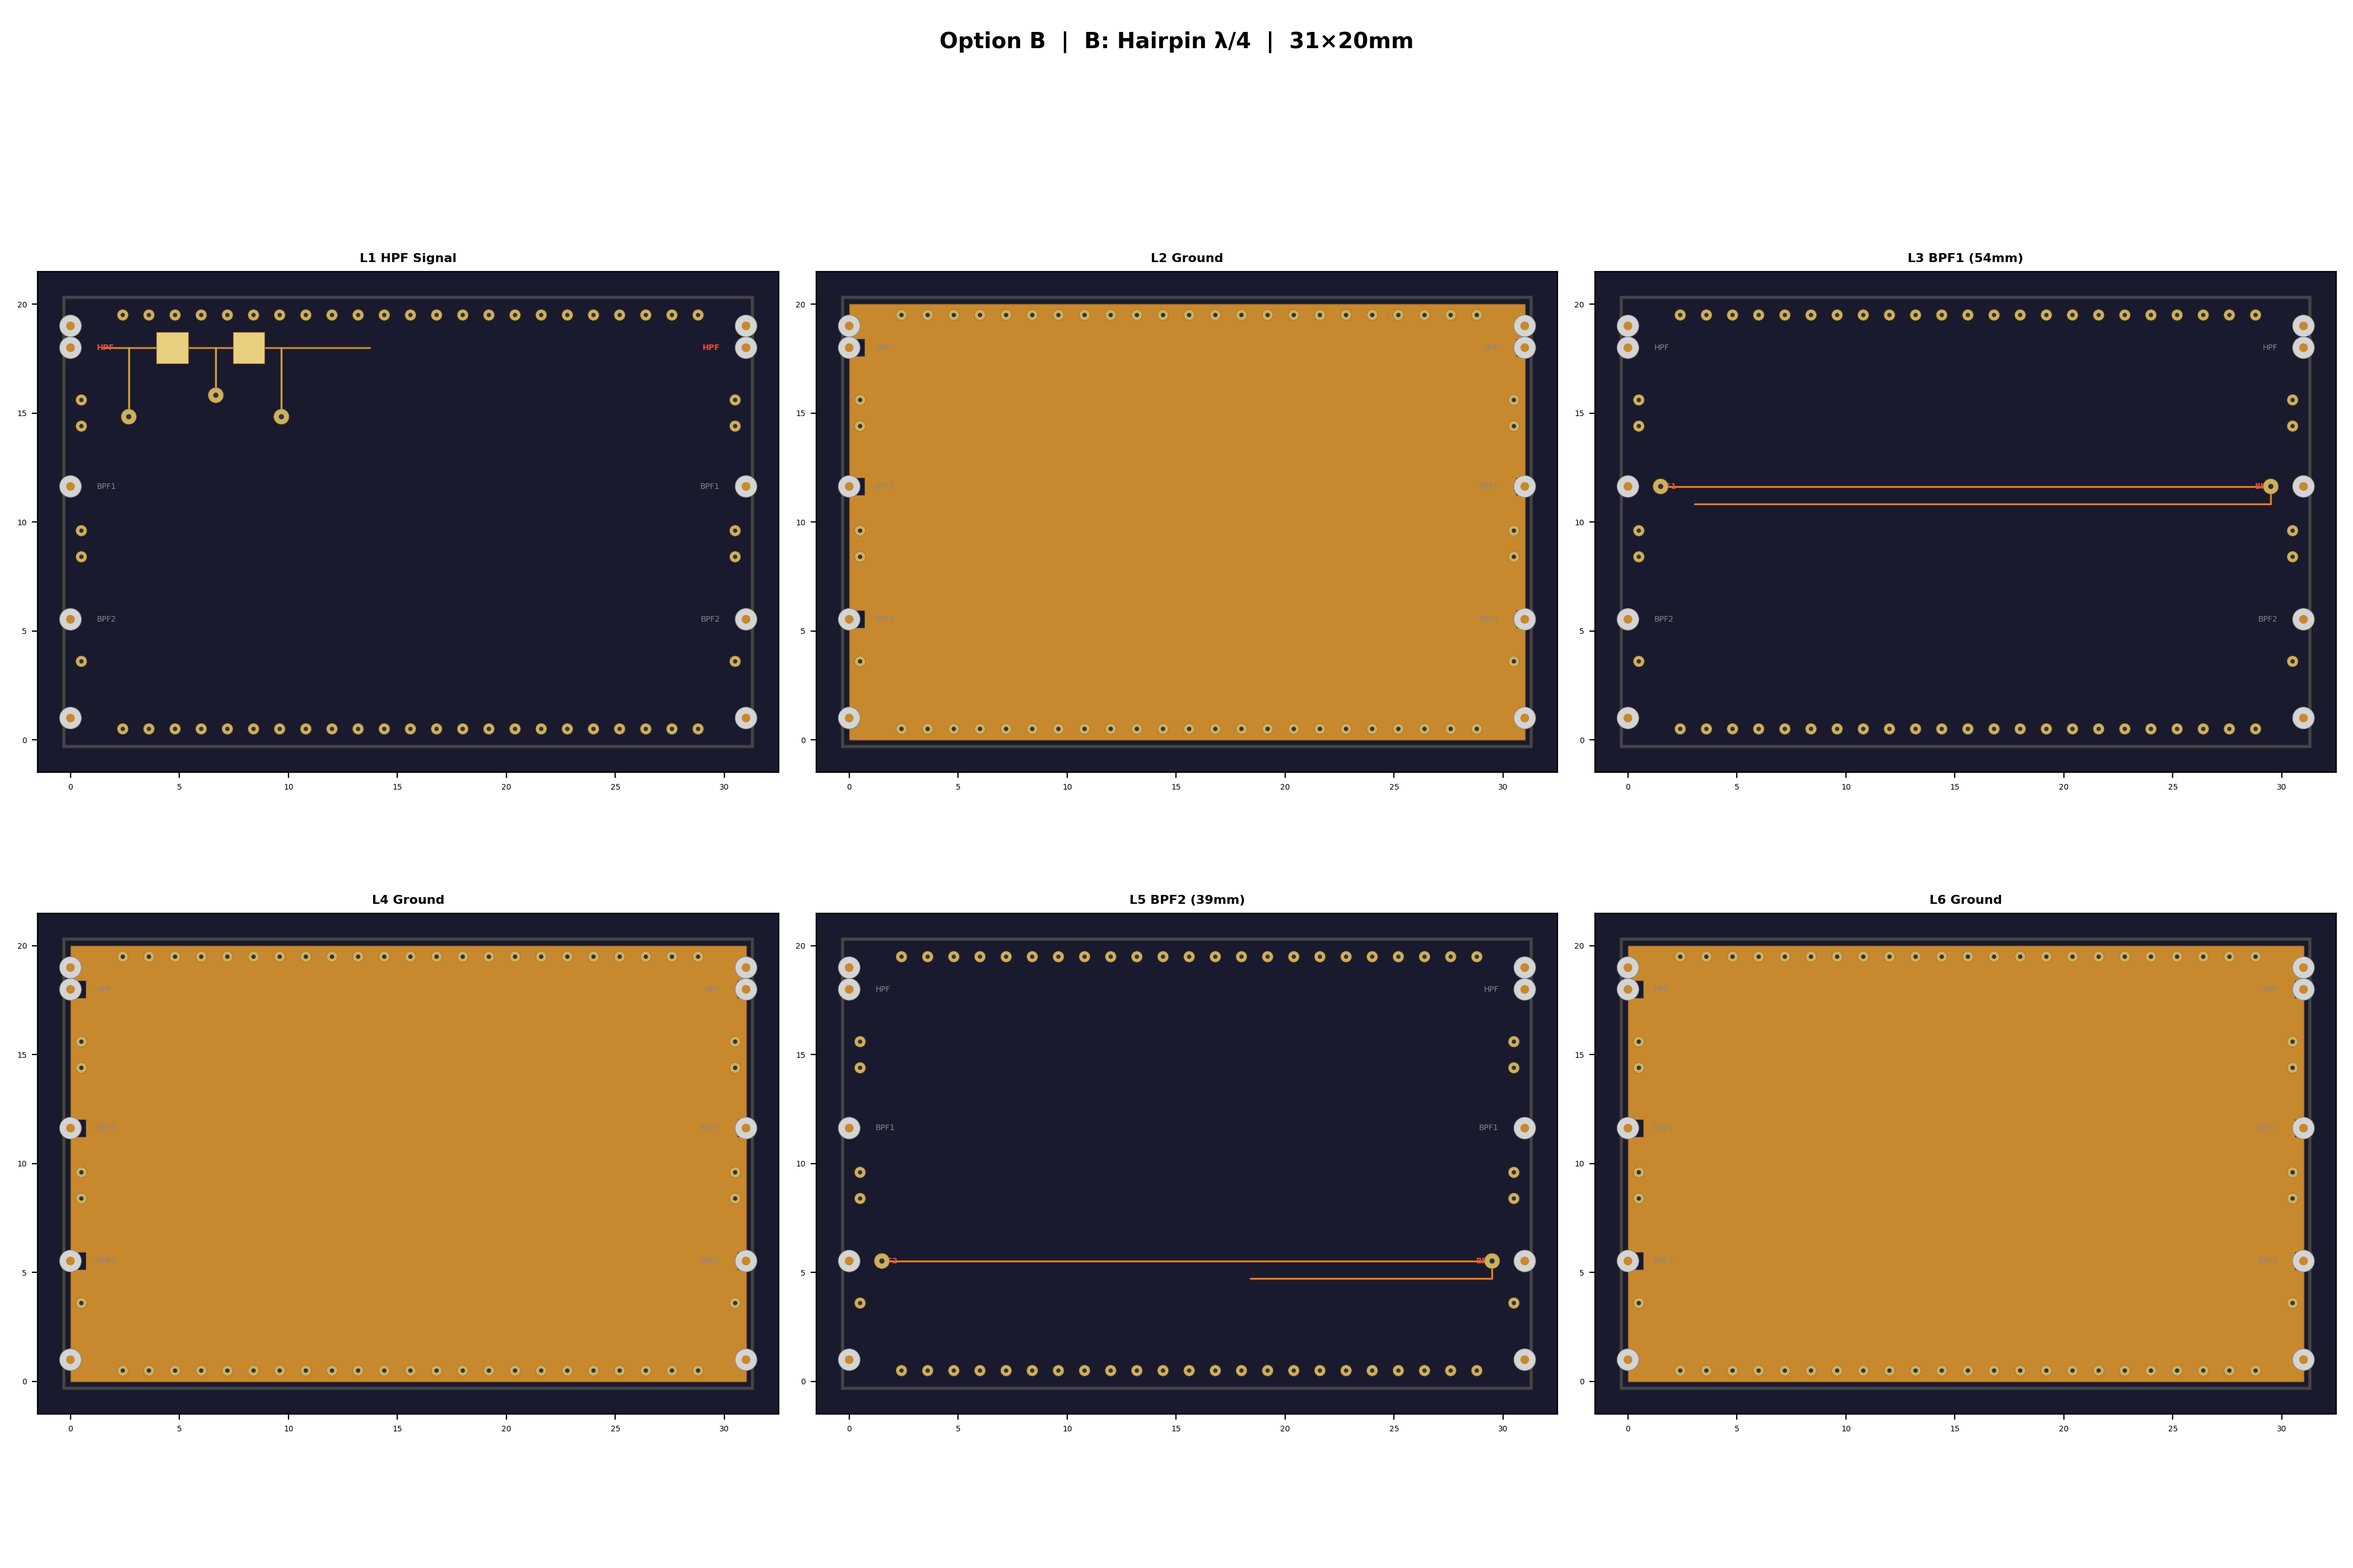
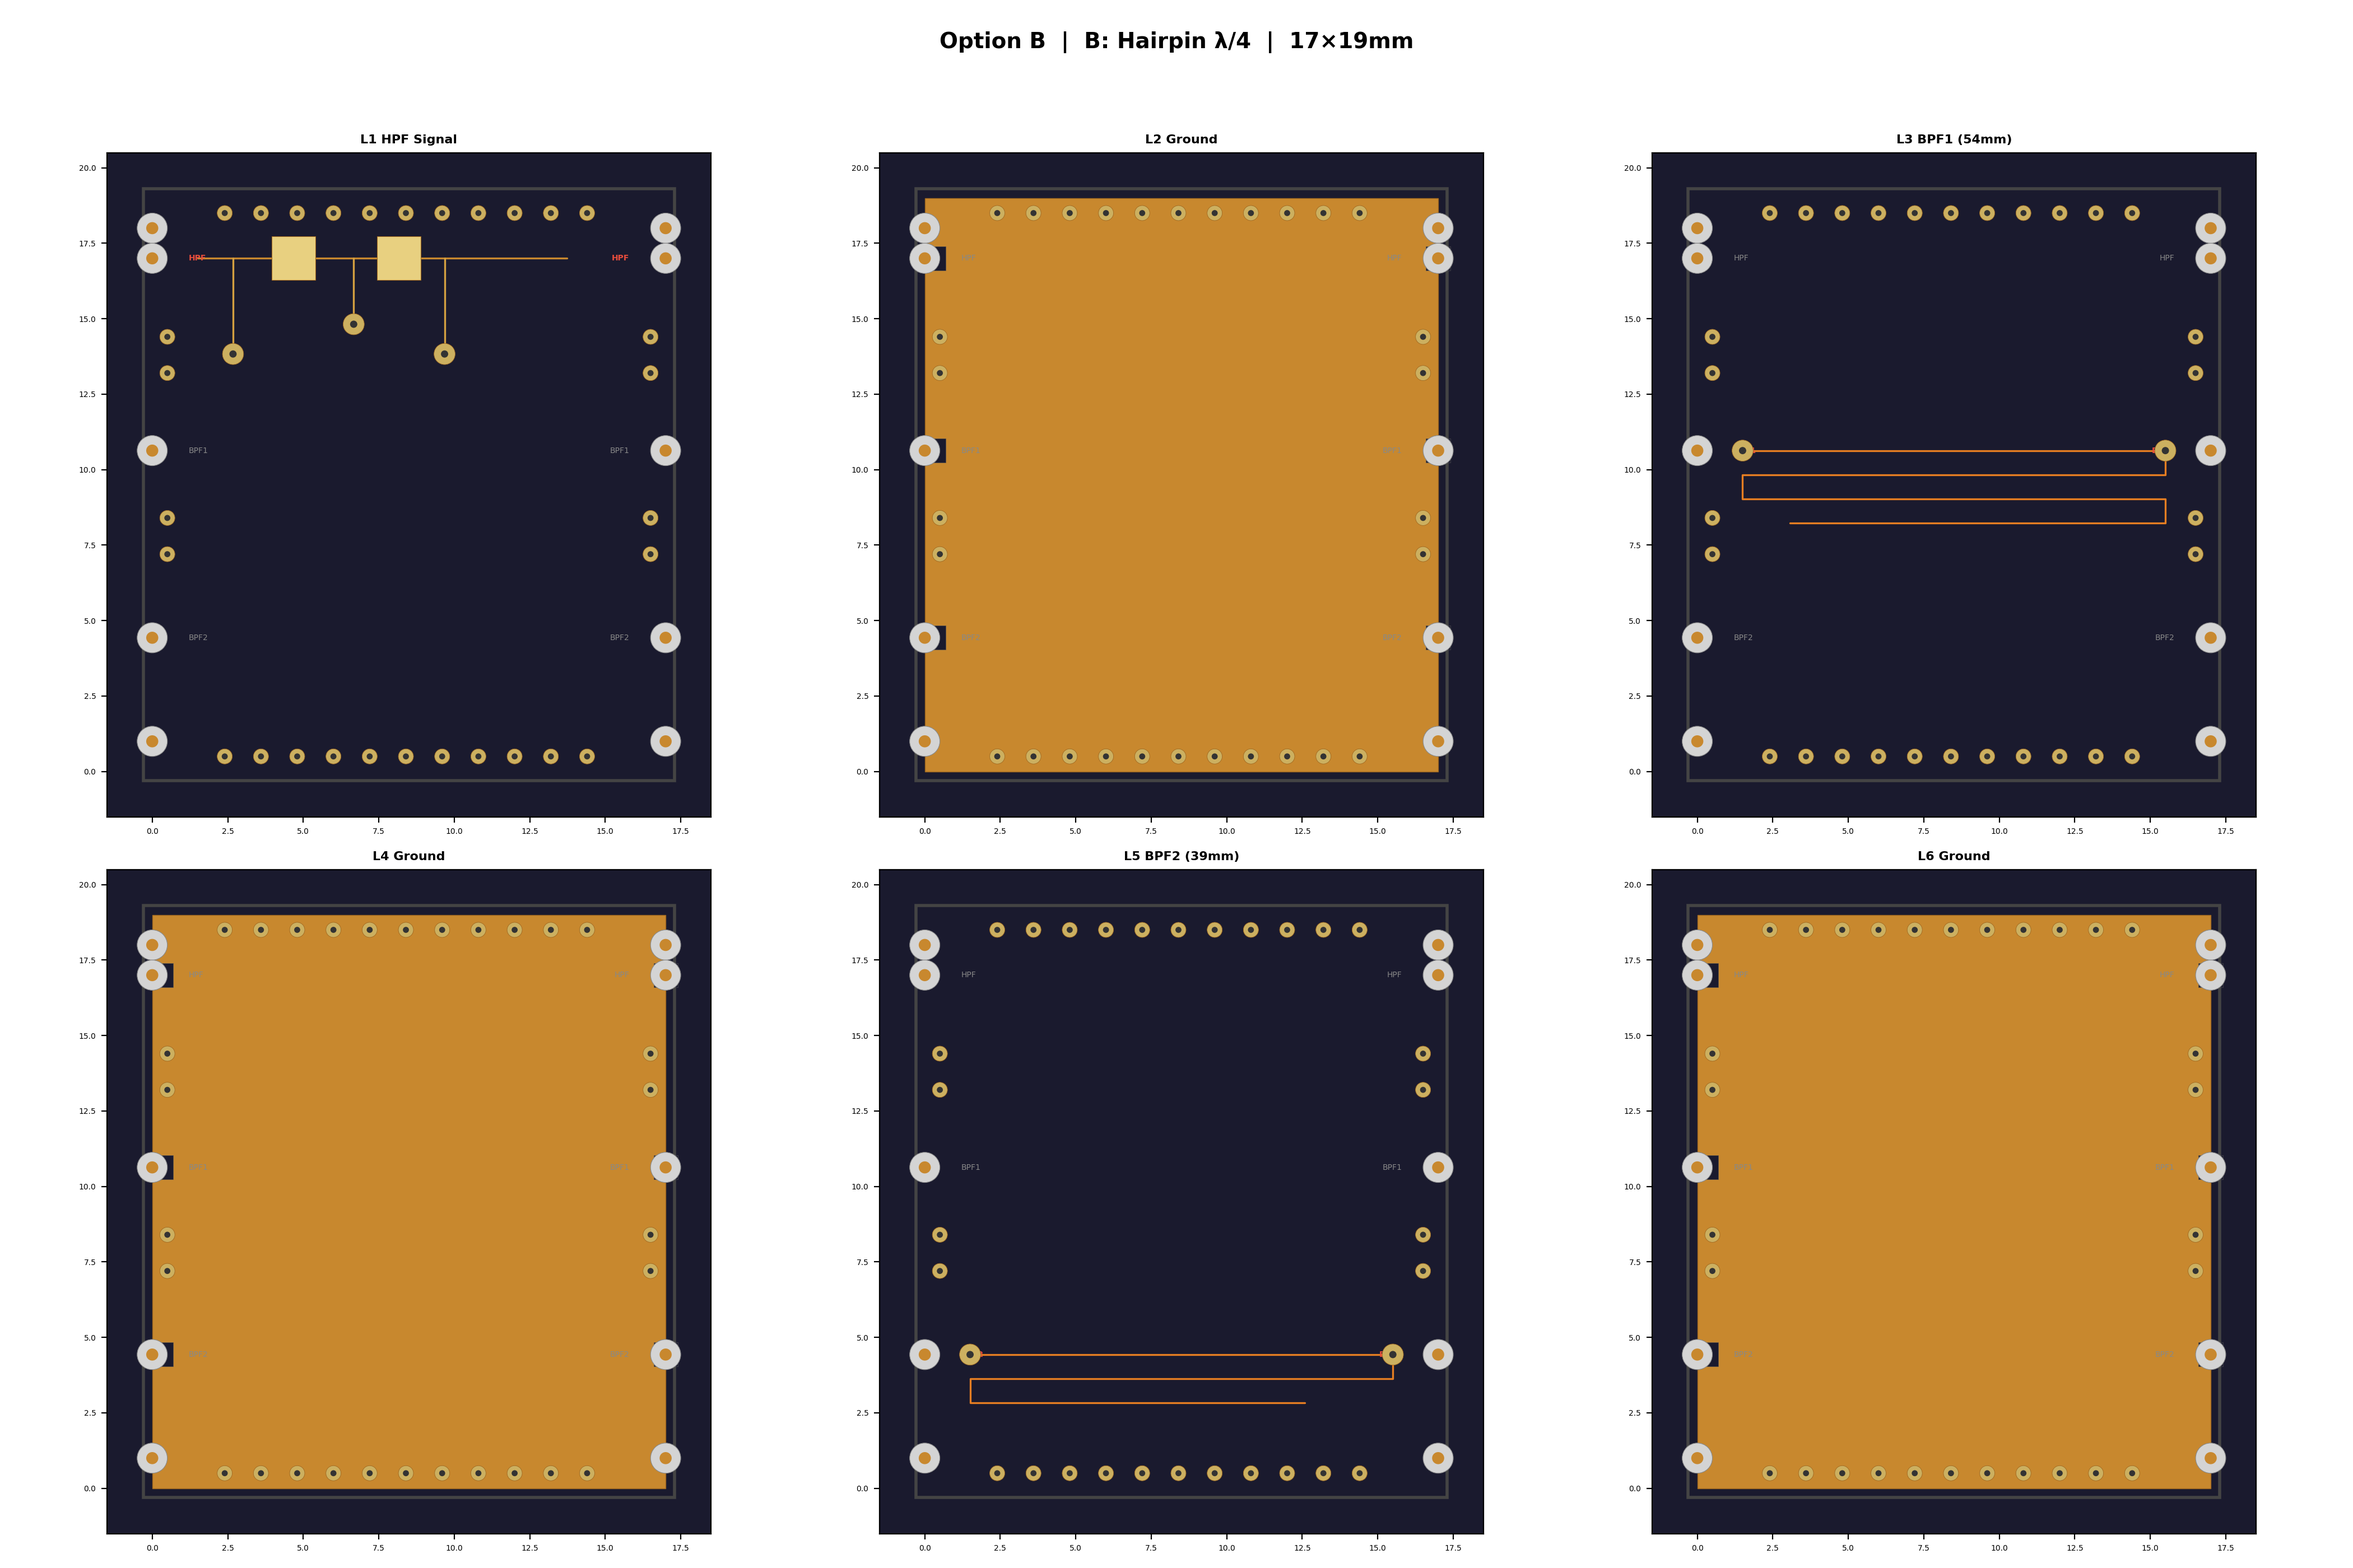
Aggressive meandering: boards shrink to 17-18mm wide
Fixed meander algorithm to fold within target width even when
individual segments are shorter than the board.  The old algorithm
only folded when a single segment exceeded the board width.

Board sizes (was → now):
  A: Coupled-Res  33×22 → 18×23mm  (414 mm²)
  B: Hairpin       31×20 → 17×19mm  (323 mm²)
  C: Stub-loaded   30×20 → 17×20mm  (340 mm²)

Fixed: variable name collision where fg (fold gap) overwrote
fg (frequency in GHz array), crashing the comparison plot.

Fixed: explicit np.array() conversion for all S-parameter data
passed to matplotlib to prevent JAX array shape issues.

diff --git a/shape_filter_bank.py b/shape_filter_bank.py
@@ -218,14 +218,25 @@ def _opt(loss_fn,init_fn,freqs,n_r=3,n_steps=2500,lr=5e-3):
 # ═══════════════════════════════════════════════════════════════════════
 CU="#c8882e";CU_DARK="#a06820";SUBSTRATE="#1a1a2e";VIA_C="#ccb060";SOLDER="#d4d4d4"
 
-def _meander_pts(x0,y0,segs,bw,fg=FOLD_GAP):
-    mx=bw-EDGE_PAD;x,y,dx=x0,y0,1;pts=[(x,y)]
+def _meander_pts(x0, y0, segs, bw, fg=FOLD_GAP):
+    """Pack trace segments into board width, folding as needed.
+    Handles segments shorter than the available run by accumulating
+    them until a fold is required."""
+    x_min, x_max = EDGE_PAD, bw - EDGE_PAD
+    x, y, dx = x0, y0, 1
+    pts = [(x, y)]
+    total_remaining = sum(segs)
     for s in segs:
-        avail=(mx-x) if dx>0 else (x-EDGE_PAD); avail=max(avail,0.3)
-        if s<=avail+0.1: x+=s*dx;pts.append((x,y))
-        else:
-            x+=avail*dx;pts.append((x,y));y-=fg;pts.append((x,y));dx=-dx
-            x+=(s-avail)*dx;pts.append((x,y))
+        left = s
+        while left > 0.05:
+            avail = (x_max - x) if dx > 0 else (x - x_min)
+            avail = max(avail, 0.1)
+            step = min(left, avail)
+            x += step * dx
+            pts.append((x, y))
+            left -= step
+            if left > 0.05:
+                y -= fg; pts.append((x, y)); dx = -dx
     return pts
 
 def _draw_trace(ax,pts,w,color=CU,z=3):
@@ -307,25 +318,47 @@ def main():
 
     # ── Compute board sizes ──────────────────────────────────────────
     max_stub_mm=float(np.max(sl))*1e3
-    CH_HPF=max_stub_mm+1.5; CH_BPF=2.0
+    CH_HPF=max_stub_mm+1.5
 
     for res in all_results:
         longest=max(hpf_total, res['t1'], res['t2'])
-        nf=1; tw=longest+2*EDGE_PAD
-        while tw>40: nf+=1; tw=longest/nf+2*EDGE_PAD
-        bw=float(np.ceil(tw))
-        bh=float(np.ceil(EDGE_PAD+CH_HPF+PAD_PITCH+CH_BPF+nf*FOLD_GAP+PAD_PITCH+CH_BPF+nf*FOLD_GAP+EDGE_PAD))
-        bh=max(bh,8)
+        usable_target = 15.0
+        nf = max(1, int(np.ceil(longest / usable_target)))
+        bw = float(np.ceil(longest / nf + 2*EDGE_PAD))
+        bw = max(bw, 10)
+
+        fgap = FOLD_GAP
+        def ch_h(trace_mm):
+            nf_t = max(1, int(np.ceil(trace_mm / (bw - 2*EDGE_PAD))))
+            return 0.5 + nf_t * fgap
+        ch_b1 = ch_h(res['t1'])
+        ch_b2 = ch_h(res['t2'])
+        ch_hpf = max(CH_HPF, ch_h(hpf_total))
+
+        bh = float(np.ceil(EDGE_PAD + ch_hpf + PAD_PITCH + ch_b1 + PAD_PITCH + ch_b2 + EDGE_PAD))
+        bh = max(bh, 8)
         res['bw']=bw; res['bh']=bh; res['nf']=nf
 
     # ── Generate per-variant copper artwork + response ───────────────
     for res in all_results:
         BW,BH=res['bw'],res['bh']
-        y_hpf=BH-EDGE_PAD-0.5; y_b1=y_hpf-CH_HPF-PAD_PITCH+0.5; y_b2=y_b1-CH_BPF-res['nf']*FOLD_GAP-PAD_PITCH
+        longest=max(hpf_total,res['t1'],res['t2'])
+        usable=BW-2*EDGE_PAD
+
+        def _ch_h(trace_mm):
+            nf_t=max(1,int(np.ceil(trace_mm/usable)))
+            return 0.5+nf_t*FOLD_GAP
+        ch_hpf_=max(CH_HPF,_ch_h(hpf_total))
+        ch_b1_=_ch_h(res['t1']); ch_b2_=_ch_h(res['t2'])
+
+        y_hpf=BH-EDGE_PAD-0.5
+        y_b1=y_hpf-ch_hpf_-PAD_PITCH+0.5
+        y_b2=y_b1-ch_b1_-PAD_PITCH
 
         hpf_pts=_meander_pts(EDGE_PAD,y_hpf,hpf_segs,BW)
-        b1_segs=[res['t1']/5]*5 if 'Coupled' in res['name'] or 'Hairpin' in res['name'] else [res['t1']/10]*10
-        b2_segs=[res['t2']/5]*5 if 'Coupled' in res['name'] or 'Hairpin' in res['name'] else [res['t2']/10]*10
+        n_seg = 5 if 'Coupled' in res['name'] or 'Hairpin' in res['name'] else 10
+        b1_segs=[res['t1']/n_seg]*n_seg
+        b2_segs=[res['t2']/n_seg]*n_seg
         bpf1_pts=_meander_pts(EDGE_PAD,y_b1,b1_segs,BW)
         bpf2_pts=_meander_pts(EDGE_PAD,y_b2,b2_segs,BW)
 
@@ -386,14 +419,15 @@ def main():
         fn=f"board_option_{tag}.png";fig.savefig(fn,dpi=200);plt.close(fig);generated.append(fn)
 
     # ── Comparison plot ──────────────────────────────────────────────
+    s21h_np=np.array(s21h); s11h_np=np.array(s11h)
     fig,axes=plt.subplots(3,3,figsize=(18,14))
     fig.suptitle("Board Option Comparison — Frequency Response",fontsize=14,fontweight="bold")
     row_labels=["HPF fc=2.5GHz","BPF1 2.5-3.75GHz","BPF2 3.75-5.0GHz"]
     for ci,res in enumerate(all_results):
         for ri,(s21,s11,vl,title) in enumerate([
-            (s21h,s11h,[2.5],row_labels[0]),
-            (res['s21b1'],res['s11b1'],[2.5,3.75],row_labels[1]),
-            (res['s21b2'],res['s11b2'],[3.75,5.0],row_labels[2]),
+            (s21h_np,s11h_np,[2.5],row_labels[0]),
+            (np.array(res['s21b1']),np.array(res['s11b1']),[2.5,3.75],row_labels[1]),
+            (np.array(res['s21b2']),np.array(res['s11b2']),[3.75,5.0],row_labels[2]),
         ]):
             ax=axes[ri,ci]
             ax.plot(fg,db(s21),"b",lw=1.5,label="|S21|")
@@ -412,14 +446,14 @@ def main():
     print(f"  {'Option':<25s} {'Size':>10s} {'Area':>8s} {'BPF1 IL':>10s} {'BPF2 IL':>10s}")
     print("  "+"-"*63)
     for res in all_results:
-        s21b1d=db(res['s21b1']);s21b2d=db(res['s21b2'])
+        s21b1d=db(np.array(res['s21b1']));s21b2d=db(np.array(res['s21b2']))
         pb1=(fg>=2.5)&(fg<=3.75);pb2=(fg>=3.75)&(fg<=5.0)
         il1=f"{float(-np.max(s21b1d[pb1])):.1f}-{float(-np.min(s21b1d[pb1])):.1f}"
         il2=f"{float(-np.max(s21b2d[pb2])):.1f}-{float(-np.min(s21b2d[pb2])):.1f}"
         sz_str=f"{res['bw']:.0f}×{res['bh']:.0f}mm"
         area=f"{res['bw']*res['bh']:.0f}mm²"
         print(f"  {res['name']:<25s} {sz_str:>10s} {area:>8s} {il1:>10s} {il2:>10s}")
-    hpf_db=db(s21h);pb_h=(fg>=2.5)&(fg<=5.5)
+    hpf_db=db(s21h_np);pb_h=(fg>=2.5)&(fg<=5.5)
     print(f"\n  HPF (shared): IL {float(-np.max(hpf_db[pb_h])):.1f}-{float(-np.min(hpf_db[pb_h])):.1f} dB")
 
     print("\n"+"="*64)
